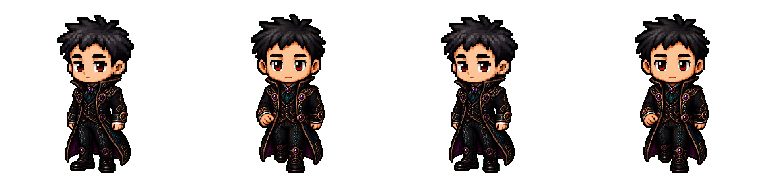
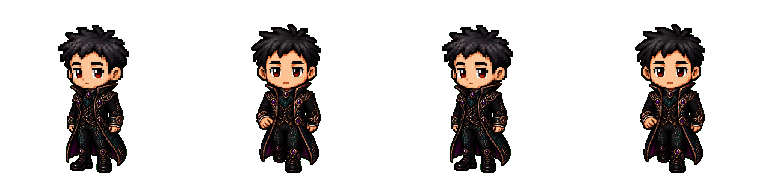
sync: merge latest UI and Builda draft

diff --git a/src/main.ts b/src/main.ts
@@ -535,7 +535,7 @@ export class HospitalBattleScene extends Phaser.Scene {
     this.load.image('ui-round-frame', '/assets/art/ui-round-frame.webp');
     this.load.image('dialogue-bubble-v2', '/assets/art/ui/dialogue-bubble-v2.png');
     this.load.image('touch-joystick-base-v1', '/assets/art/ui/touch-joystick-base-v1.png');
-    (['archive', 'mainline', 'daily', 'profile-tabs', 'boss-month', 'ranking', 'boss-drop', 'status-waiting', 'boss-name', 'start-challenge'] as const).forEach((textAsset) => {
+    (['archive', 'mainline', 'daily', 'profile-tabs', 'boss-month', 'ranking', 'boss-drop', 'status-waiting', 'start-challenge'] as const).forEach((textAsset) => {
       this.load.image(`ui-text-${textAsset}-v1`, `/assets/art/ui/text/ui-text-${textAsset}-v1.png`);
     });
     this.load.image('ui-stamp-uncompleted-v1', '/assets/art/ui/text/ui-stamp-uncompleted-v1.png');
@@ -619,6 +619,7 @@ export class HospitalBattleScene extends Phaser.Scene {
       (['left', 'right', 'up', 'down'] as PlayerDirection[]).forEach((direction) => {
         this.load.spritesheet(this.skinWalkTextureKey(skin, direction), `${root}/walk-${direction}.png`, { frameWidth: 192, frameHeight: 192 });
       });
+      if (skin.coverPath) this.load.image(this.skinCoverTextureKey(skin), skin.coverPath);
     });
     SMALL_ENEMY_ART_SHEETS.forEach(({ key, path, frameWidth, frameHeight }) => {
       this.load.spritesheet(key, path, { frameWidth, frameHeight });
@@ -801,6 +802,10 @@ export class HospitalBattleScene extends Phaser.Scene {
     const art = this.skinArtSpec(skin);
     if (art) return art.portraitKey;
     return skin.assetPrefix ? `skin-${skin.id}-front` : 'patient-idle-front';
+  }
+
+  private skinCoverTextureKey(skin: SkinDef) {
+    return skin.coverPath ? `skin-${skin.id}-cover` : this.skinFrontTextureKey(skin);
   }
 
   private skinWalkTextureKey(skin: SkinDef, direction: PlayerDirection) {
@@ -1166,6 +1171,7 @@ export class HospitalBattleScene extends Phaser.Scene {
       ...this.skins.flatMap((skin) => skin.assetPrefix
         ? [
             this.skinFrontTextureKey(skin),
+            ...(skin.coverPath ? [this.skinCoverTextureKey(skin)] : []),
             ...(['left', 'right', 'up', 'down'] as PlayerDirection[]).map((direction) => this.skinWalkTextureKey(skin, direction)),
           ]
         : []),
@@ -1594,6 +1600,7 @@ export class HospitalBattleScene extends Phaser.Scene {
       if (!raw) return;
       const parsed = JSON.parse(raw) as Partial<ProgressSave>;
       const defaultWeaponSkins = ['sword-default', 'gun-default', 'whip-default', 'cannon-default'];
+      const availableSkinIds = new Set(this.skins.map((skin) => skin.id));
       const equippedWeaponSkinIds = parsed.equippedWeaponSkinIds && typeof parsed.equippedWeaponSkinIds === 'object'
         ? parsed.equippedWeaponSkinIds
         : { sword: 'sword-default', gun: 'gun-default', whip: 'whip-default', cannon: 'cannon-default' };
@@ -1604,8 +1611,8 @@ export class HospitalBattleScene extends Phaser.Scene {
         unlockedWeaponIds: Array.isArray(parsed.unlockedWeaponIds) ? parsed.unlockedWeaponIds.filter((id): id is string => typeof id === 'string') : ['knife', 'ward-lantern'],
         unlockedWeaponSkinIds: Array.isArray(parsed.unlockedWeaponSkinIds) ? parsed.unlockedWeaponSkinIds.filter((id): id is string => typeof id === 'string') : defaultWeaponSkins,
         equippedWeaponSkinIds,
-        unlockedSkinIds: Array.isArray(parsed.unlockedSkinIds) ? parsed.unlockedSkinIds.filter((id): id is string => typeof id === 'string') : DEFAULT_UNLOCKED_SKIN_IDS,
-        equippedSkinId: typeof parsed.equippedSkinId === 'string' ? parsed.equippedSkinId : 'patient-default',
+        unlockedSkinIds: Array.isArray(parsed.unlockedSkinIds) ? parsed.unlockedSkinIds.filter((id): id is string => typeof id === 'string' && availableSkinIds.has(id)) : DEFAULT_UNLOCKED_SKIN_IDS,
+        equippedSkinId: typeof parsed.equippedSkinId === 'string' && availableSkinIds.has(parsed.equippedSkinId) ? parsed.equippedSkinId : 'patient-default',
         archiveKinds: Array.isArray(parsed.archiveKinds) ? parsed.archiveKinds.filter((id): id is string => typeof id === 'string') : [],
         dailyCompletedDate: typeof parsed.dailyCompletedDate === 'string' ? parsed.dailyCompletedDate : undefined,
         dailyBestSeconds: Number.isFinite(Number(parsed.dailyBestSeconds)) && Number(parsed.dailyBestSeconds) > 0 ? Number(parsed.dailyBestSeconds) : undefined,
@@ -2897,12 +2904,12 @@ export class HospitalBattleScene extends Phaser.Scene {
     const previewEquipped = previewSkin.id === this.progress.equippedSkinId;
     const previewAction = previewUnlocked
       ? (previewEquipped ? '已装备' : '装备')
-      : previewSkin.id === 'scarlet-night'
+      : previewSkin.category === 'boss'
         ? '去挑战'
         : `购买 ${this.skinPurchaseCost(previewSkin.id)}`;
     this.addButton(layer, boardX + 164 * caseSheetScale, boardY + 136 * caseSheetScale, 88 * caseSheetScale, 26 * caseSheetScale, previewAction, () => {
       if (previewUnlocked) this.equipSkin(previewSkin.id);
-      else if (previewSkin.id === 'scarlet-night') this.showDailyChallenge();
+      else if (previewSkin.category === 'boss') this.showDailyChallenge();
       else void this.buySkin(previewSkin.id);
     }, previewEquipped ? 'muted' : 'primary', 8);
 
@@ -2987,7 +2994,7 @@ export class HospitalBattleScene extends Phaser.Scene {
       // from every card so the panel stays visually quiet.
       const actionCallback = unlocked
         ? () => this.equipSkin(skin.id)
-        : skin.id === 'scarlet-night'
+        : skin.category === 'boss'
           ? () => this.showDailyChallenge()
           : () => { void this.buySkin(skin.id); };
       this.uiActionRegions.push({
@@ -3163,7 +3170,7 @@ export class HospitalBattleScene extends Phaser.Scene {
       bossPanel.add(this.add.circle(0, -2, 64, 0x24353c, 1).setStrokeStyle(2, 0xb798e2, 1));
       bossPanel.add(this.add.text(0, -2, 'BOSS', { fontFamily: 'Courier New', fontSize: '20px', color: palette.violet }).setOrigin(0.5));
     }
-    this.addUiTextTexture(layer, bossX, 355, 190, 58, 'ui-text-boss-name-v1', '月蚀蝶后', 20);
+    layer.add(cthulhuText(bossX, 355, MOON_MOTH_QUEEN_ART.name, 20));
     layer.add(bossPanel);
     const dropItems = [
       { texture: 'relic-crown', label: '月蚀王冠' },
@@ -3281,7 +3288,13 @@ export class HospitalBattleScene extends Phaser.Scene {
       bossPanel.add(this.add.circle(0, -8, 56, 0x24353c, 1).setStrokeStyle(2, 0xb798e2, 1));
       bossPanel.add(this.add.text(0, -8, 'BOSS', { fontFamily: 'Courier New', fontSize: '20px', color: palette.violet }).setOrigin(0.5));
     }
-    this.addUiTextTexture(layer, bossX, 294, 190, 58, 'ui-text-boss-name-v1', '月蚀蝶后', 19);
+    layer.add(this.add.text(bossX, 294, MOON_MOTH_QUEEN_ART.name, {
+      fontFamily: 'Courier New, Microsoft YaHei',
+      fontSize: '19px',
+      color: palette.cream,
+      stroke: '#050b10',
+      strokeThickness: 3,
+    }).setOrigin(0.5).setFontStyle('bold'));
     layer.add(bossPanel);
 
     const dropPanel = this.addDailyPanelFrame(layer, bossX, 492, 310, 175);
@@ -3613,7 +3626,10 @@ export class HospitalBattleScene extends Phaser.Scene {
 
   private addPatientSprite(parent: Phaser.GameObjects.Container, x: number, y: number, targetHeight: number, skin?: SkinDef) {
     const selectedSkin = skin ?? this.skins[0];
-    const textureKey = this.skinHasCustomArt(selectedSkin) ? this.skinFrontTextureKey(selectedSkin) : (this.textures.exists('patient-idle-front') ? 'patient-idle-front' : 'patient-boy');
+    const customTextureKey = this.skinHasCustomArt(selectedSkin) ? this.skinCoverTextureKey(selectedSkin) : '';
+    const textureKey = customTextureKey && this.textures.exists(customTextureKey)
+      ? customTextureKey
+      : (this.textures.exists('patient-idle-front') ? 'patient-idle-front' : 'patient-boy');
     if (!this.textures.exists(textureKey)) return undefined;
     const sprite = this.add.image(x, y, textureKey).setOrigin(0.5);
     sprite.setDisplaySize(targetHeight * sprite.width / sprite.height, targetHeight);
@@ -3669,12 +3685,6 @@ export class HospitalBattleScene extends Phaser.Scene {
   private applyEquippedSkinBonus() {
     const skin = this.skins.find((candidate) => candidate.id === this.progress.equippedSkinId);
     if (!skin) return;
-    if (skin.id === 'scarlet-night') this.damageBonus += 6;
-    if (skin.id === 'cyan-ward') {
-      this.maxShield += 18;
-      this.shield = this.maxShield;
-    }
-    if (skin.id === 'violet-dream') this.runSpeed *= 1.08;
     if (skin.id === 'street-runner') this.runSpeed *= 1.05;
     if (skin.id === 'cthulhu-dark') this.damageBonus += 8;
   }

diff --git a/src/skinCatalog.ts b/src/skinCatalog.ts
@@ -7,6 +7,7 @@ export interface SkinDef {
   category: Exclude<ProfileSkinCategory, 'all'>;
   cost: number;
   assetPrefix?: string;
+  coverPath?: string;
   artId?: string;
   setName?: string;
   setBuff?: string;
@@ -18,12 +19,9 @@ export const SKINS: SkinDef[] = [
   { id: 'investigator-normal', name: '调查员男·正常版', color: 0x8b6a49, category: 'store', cost: 0, artId: 'investigator-normal', setName: '调查员常服', setBuff: '纯外观' },
   { id: 'investigator-female-normal', name: '调查员女·正常版', color: 0x8c5c78, category: 'store', cost: 0, artId: 'investigator-female-normal', setName: '调查员女常服', setBuff: '纯外观' },
   { id: 'investigator-mutated', name: '调查员男·异化版', color: 0x9a3846, category: 'store', cost: 0, artId: 'investigator-mutated', setName: '调查员异化装束', setBuff: '纯外观' },
-  { id: 'scarlet-night', name: '猩红夜班', color: 0xed716e, category: 'boss', cost: 0, setName: '猩红套装', setBuff: '伤害 +6' },
   { id: 'moon-moth-queen', name: '月蚀蝶后', color: 0xb798e2, category: 'boss', cost: 0, assetPrefix: 'moon-moth-queen', setName: '月蚀蝶后皮肤', setBuff: '纯外观' },
-  { id: 'cyan-ward', name: '青蓝病区', color: 0x7ab9d0, category: 'store', cost: 20, setName: '青蓝套装', setBuff: '护盾 +18' },
-  { id: 'violet-dream', name: '紫雾梦魇', color: 0xb798e2, category: 'store', cost: 15, setName: '紫雾套装', setBuff: '移速 +8%' },
-  { id: 'street-runner', name: '夜行校服', color: 0x2b7880, category: 'store', cost: 25, assetPrefix: 'street-runner', setName: '街区夜行套装', setBuff: '移速 +5%' },
-  { id: 'cthulhu-dark', name: '深潜祭服', color: 0x573a6b, category: 'store', cost: 40, assetPrefix: 'cthulhu-dark', setName: '深潜祭服套装', setBuff: '伤害 +8' },
+  { id: 'street-runner', name: '夜行校服', color: 0x2b7880, category: 'store', cost: 25, assetPrefix: 'street-runner', coverPath: '/assets/art/skins/street-runner/cover.jpg', setName: '街区夜行套装', setBuff: '移速 +5%' },
+  { id: 'cthulhu-dark', name: '深潜祭服', color: 0x573a6b, category: 'store', cost: 40, assetPrefix: 'cthulhu-dark', coverPath: '/assets/art/skins/cthulhu-dark/cover.jpg', setName: '深潜祭服套装', setBuff: '伤害 +8' },
 ];
 
 export const DEFAULT_UNLOCKED_SKIN_IDS = SKINS.filter((skin) => skin.startingUnlocked).map((skin) => skin.id);

diff --git a/src/moonMothQueenArt.ts b/src/moonMothQueenArt.ts
@@ -11,6 +11,7 @@ export interface BossArtSheetSpec {
 }
 
 export const MOON_MOTH_QUEEN_ART = {
+  name: '月蚀蝶后',
   portraitKey: 'moon-moth-queen-portrait',
   deathKey: 'moon-moth-queen-death',
   walkKey: 'moon-moth-queen-walk',
